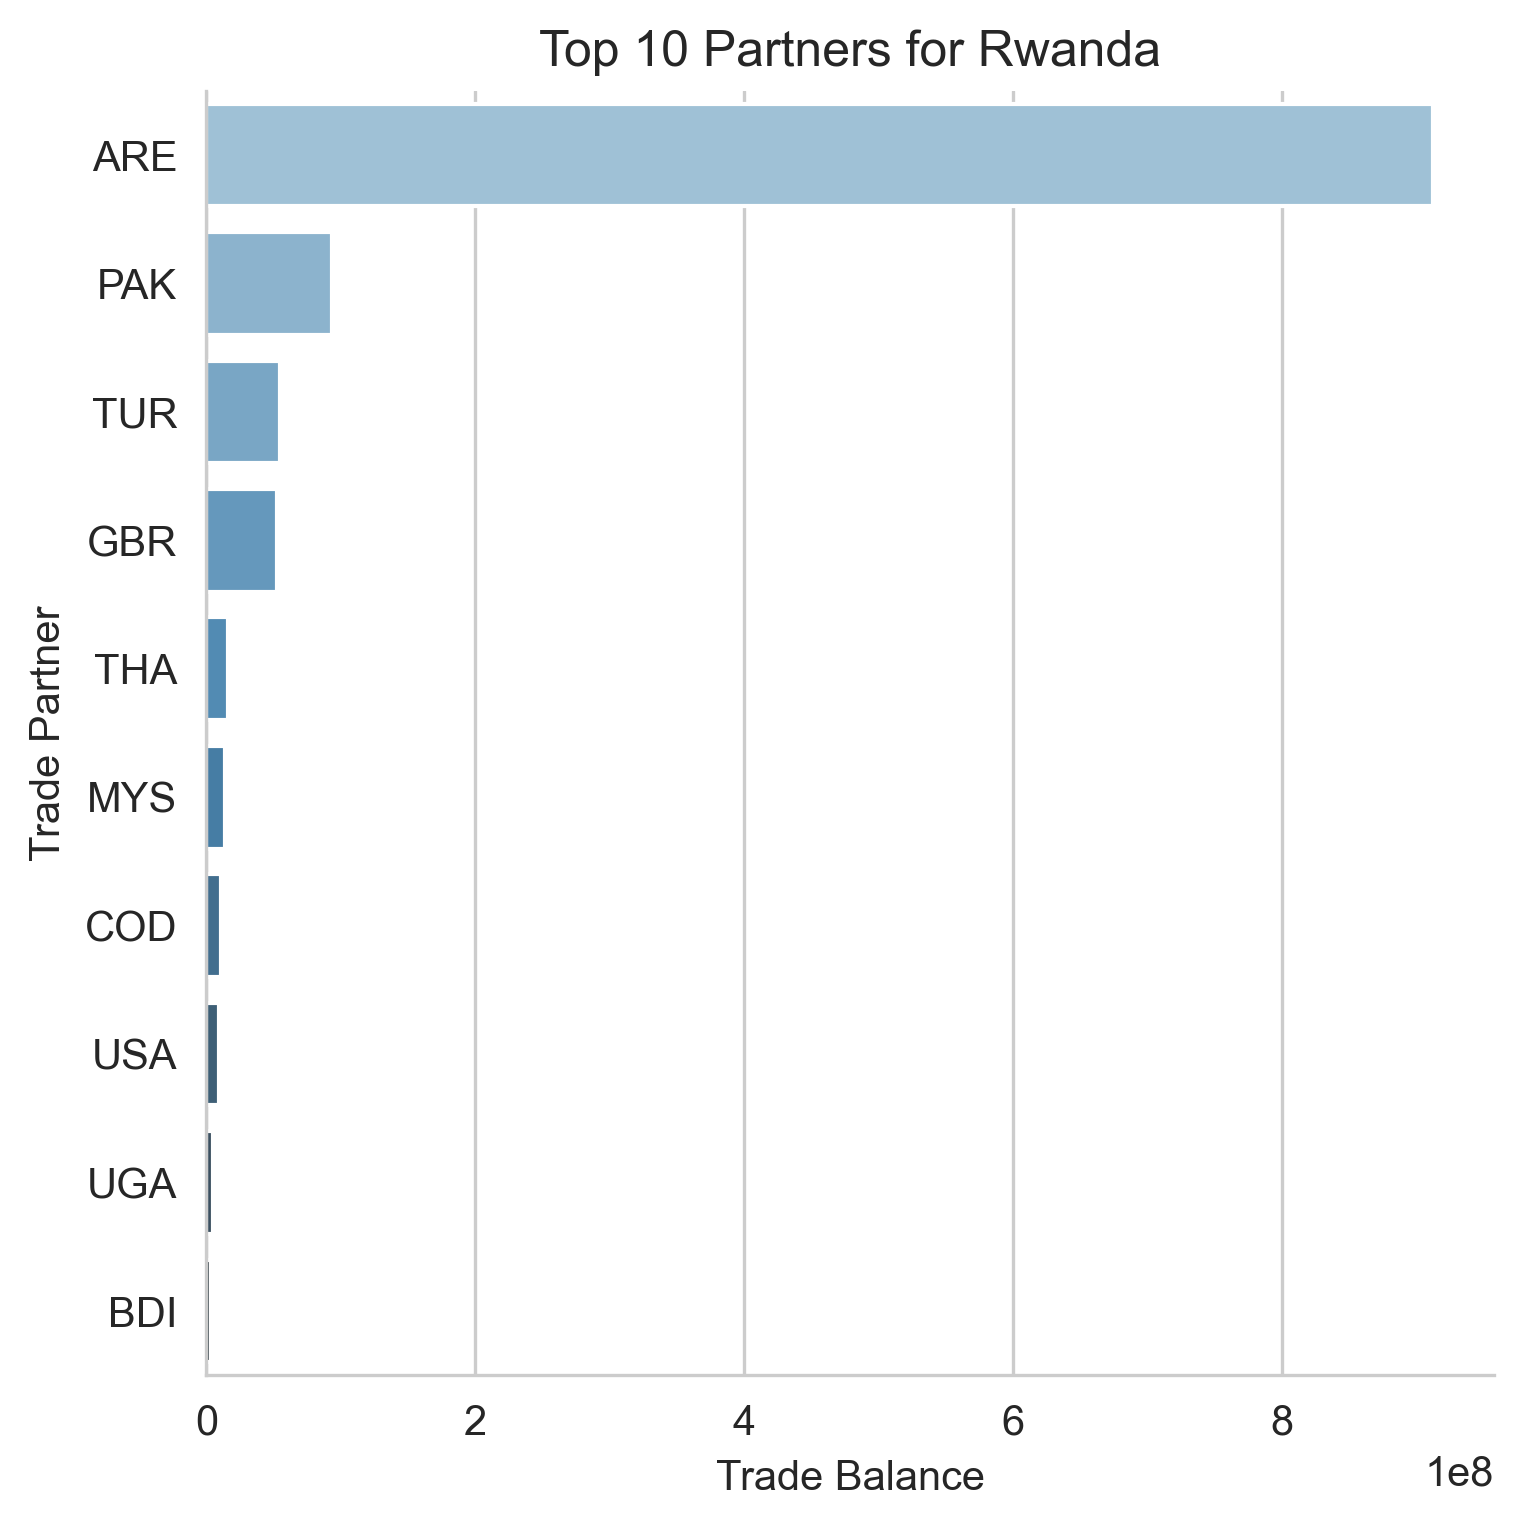
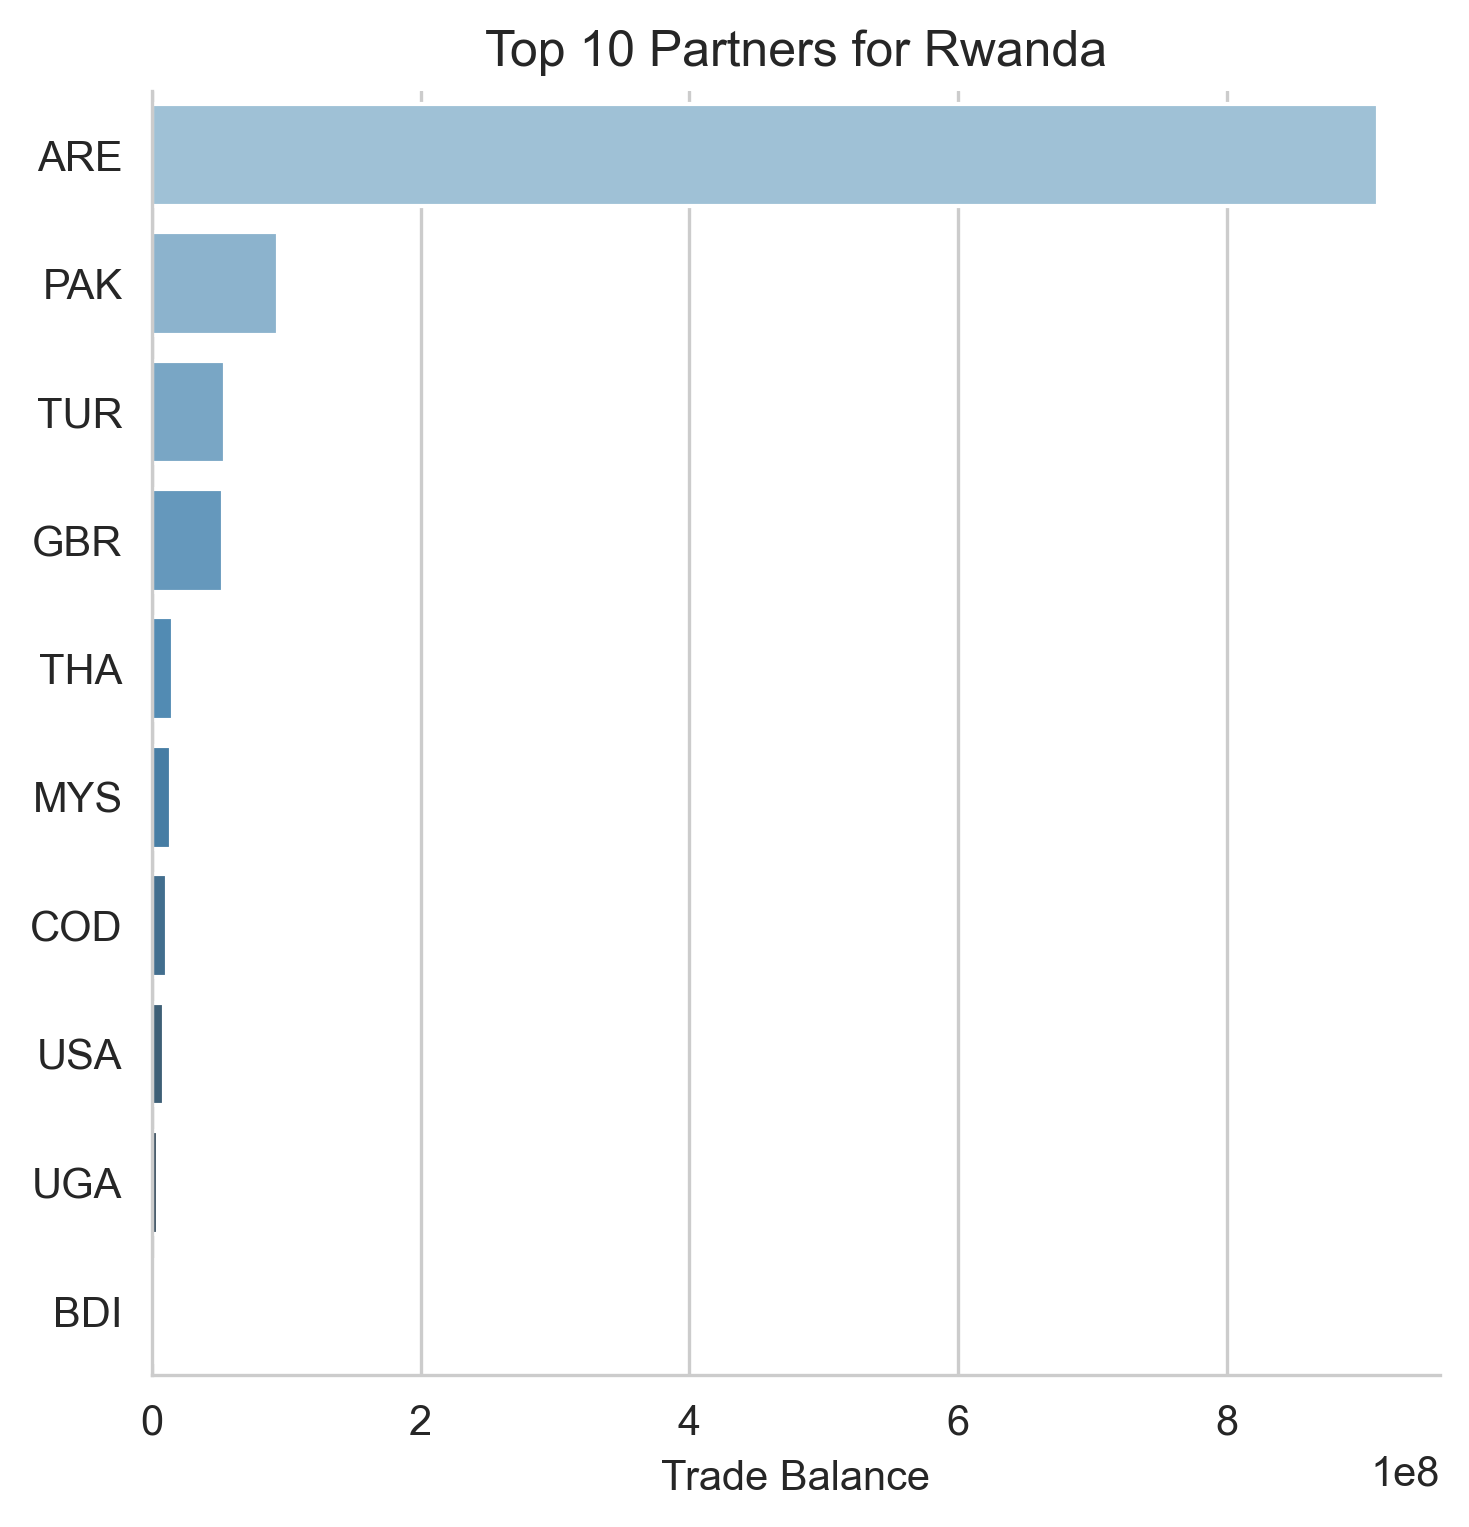
cleanup plot

diff --git a/python/explore_energy_generation.py b/python/explore_energy_generation.py
@@ -46,5 +46,5 @@ sns.set_style("whitegrid")
 sns.factorplot(x='trade_balance', y='partner_code', data=rwa_top10.to_pandas(), palette='Blues_d', kind='bar')
 plt.title('Top 10 Partners for Rwanda')
 plt.xlabel('Trade Balance')
-plt.ylabel('Trade Partner')
+plt.ylabel('')
 plt.savefig('../output/top10partners_rwa.png', dpi=300, bbox_inches='tight')
